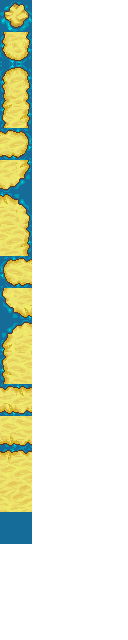
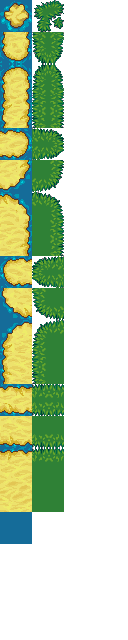
11.02

Changed region(s): [[0.25, 0.0, 0.5, 0.8125]]

diff --git a/NetBeansProjects/Slick2D/src/MapGen.java b/NetBeansProjects/Slick2D/src/MapGen.java
@@ -1,4 +1,5 @@
 import java.awt.Point;
+import java.util.Random;
 import java.util.logging.Level;
 import java.util.logging.Logger;
 import org.newdawn.slick.Graphics;
@@ -20,14 +21,21 @@ public class MapGen {
     SpriteSheet sheet;
     double noiseMap[][];
     Image map;
+    Image tree;
     int tileSize = 32;
     int size;
-    double waterLevel = 0.0;
-    NoiseMixer noiseMixer;
+    double waterLevel = -0.05;
+    double grassLevel = -0.02;
+    double treeLevel = -0.005;
+    //NoiseMixer noiseMixer;
+    FixedNoise fixedNoise;
+    Random r;
     
     
     public MapGen(int size) {
-        noiseMixer = new NoiseMixer(10);
+        r = new Random();
+        //noiseMixer = new NoiseMixer(10);
+        fixedNoise = new FixedNoise();
         this.size = size;
         noiseMap = new double[size+2][size+2];
         for(int y=0; y<size; y++){
@@ -36,6 +44,7 @@ public class MapGen {
             }
         }
         try {
+            tree = new Image("res/tree.png");
             sheet = new SpriteSheet("res/sandwaterbinary2.png", 32, 32);
             map = new Image(size*tileSize, size*tileSize);
         } catch (Exception ex) {
@@ -67,7 +76,8 @@ public class MapGen {
                 //freq = 0.32;
                 //noise = SimplexNoise.noise(x*freq, y*freq);
                 */
-                noise = noiseMixer.getNoise(x, y);
+                //noise = noiseMixer.getNoise(x, y);
+                noise = fixedNoise.getNoise(x, y);
                 noiseMap[x][y] = noise;
             }
         }
@@ -75,7 +85,7 @@ public class MapGen {
         for(int y=1; y<size-1; y++){
             for(int x=1; x<size-1; x++){
                 
-                
+                //Tegne vann og sand
                 if(noiseMap[x][y]<waterLevel){
                     g.drawImage(sheet.getSprite(0, 16), x*tileSize, y*tileSize);
                 } else {
@@ -94,7 +104,42 @@ public class MapGen {
                 }
                     g.drawImage(sheet.getSprite(0, spriteNumber), x*tileSize, y*tileSize);
                 }
+                //Tegne gras
+                if(noiseMap[x][y]<grassLevel){
+                    g.drawImage(sheet.getSprite(1, 16), x*tileSize, y*tileSize);
+                } else {
+                    int spriteNumber = 0;
+                if(noiseMap[x][y-1]>grassLevel){
+                    spriteNumber = spriteNumber + 1;
+                }
+                if(noiseMap[x][y+1]>grassLevel){
+                    spriteNumber = spriteNumber + 2;
+                }
+                if(noiseMap[x-1][y]>grassLevel){
+                    spriteNumber = spriteNumber + 4;
+                }
+                if(noiseMap[x+1][y]>grassLevel){
+                    spriteNumber = spriteNumber + 8;
+                }
+                    g.drawImage(sheet.getSprite(1, spriteNumber), x*tileSize, y*tileSize);
+                }
                 
+                
+                //Tegne tred
+                
+            }
+        }
+        
+        for(int y=1; y<size-1; y++){
+            for(int x=1; x<size-1; x++){
+                if(x%3==0 && y%3==0){
+                    //Tegne gras
+                    if(noiseMap[x][y]>treeLevel){
+                        if(r.nextInt(10)<3){
+                            g.drawImage(tree, x*tileSize, y*tileSize);
+                        } 
+                    } 
+                }
             }
         }
         

diff --git a/NetBeansProjects/Slick2D/src/FixedNoise.java b/NetBeansProjects/Slick2D/src/FixedNoise.java
@@ -1,0 +1,76 @@
+import java.util.Random;
+
+
+public class FixedNoise {
+    
+    double influence[];
+    double noiseArray[];
+    double randomArray[];
+    
+
+    
+    public FixedNoise() {
+        Random r = new Random();
+        noiseArray = new double[10];
+        influence = new double[10];
+        randomArray = new double[10];
+        
+        for (int i=0; i<10; i++){
+            randomArray[i] = r.nextDouble();
+        }
+        
+        influence [0] = 0; //4
+        influence [1] = 5; //8
+        influence [2] = 7; //16
+        influence [3] = 10; //32
+        influence [4] = 20; //64
+        influence [5] = 50; //128
+        influence [6] = 75; //256
+        influence [7] = 100; //512
+        influence [8] = 0; //1024
+        influence [9] = 0; //2048
+        
+        /*
+        influence [0] = 100;
+        influence [1] = 100;
+        influence [2] = 100;
+        influence [3] = 100;
+        influence [4] = 100;
+        influence [5] = 100;
+        influence [6] = 100;
+        influence [7] = 100;
+        influence [8] = 100;
+        influence [9] = 100;
+        */
+    }
+    
+    public double getNoise(double x, double y){
+        double noise = 0.0;
+        
+        double xin = 4.0;
+        for(int i=0; i<10; i++){
+            noiseArray[i] = SimplexNoise.noise(x / xin + randomArray[i], y / xin + randomArray[i]);
+            xin = xin * 2.0;
+        }
+        for(int i=0; i<10; i++){
+            noise = noise + (noiseArray[i] * influence[i]);
+        }
+        noise = noise/1000;
+        //noise = noise / (influence[0]+influence[1]+influence[2]+influence[3]+influence[4]+influence[5]+influence[6]+influence[7]+influence[8]+influence[9]);
+        /*
+        noise =
+                        (noiseArray[0] * v0
+                        + noiseArray[1] * v1
+                        + noiseArray[2] * v2
+                        + noiseArray[3] * v3
+                        + noiseArray[4] * v4
+                        + noiseArray[5] * v5
+                        + noiseArray[6] * v6
+                        + noiseArray[7] * v7
+                        + noiseArray[8] * v8
+                        + noiseArray[9] * v9) / (v0 + v1 + v2 + v3 + v4 + v5 + v6 + v7 + v8 + v9);
+        
+        */   
+        return noise;
+    }
+}

diff --git a/NetBeansProjects/Slick2D/src/NoiseMixer.java b/NetBeansProjects/Slick2D/src/NoiseMixer.java
@@ -31,7 +31,7 @@ public class NoiseMixer {
         for(int i=0; i<numbFreq; i++){
             freqArray[i] = a*i + Math.pow(b,i) + c;
             //freqArray[i] = i*8;
-            System.out.println(freqArray[i]);
+            //System.out.println(freqArray[i]);
             randomArray[i] = r.nextDouble() * 10000;
         }
     }
@@ -53,7 +53,7 @@ public class NoiseMixer {
             totalFreq = totalFreq + freqArray[i];
         }
         noise = noise / (totalFreq);
-        //System.out.println(noise);
+        System.out.println(noise);
         return noise;
     }
 }

diff --git a/NetBeansProjects/Slick2D/src/Animator.java b/NetBeansProjects/Slick2D/src/Animator.java
@@ -39,6 +39,6 @@ public class Animator {
 
     Animation getAnimation(int x, int numb) {
         Image[] imageArray = loadImages(x, numb);
-        return new Animation(imageArray, 150);
+        return new Animation(imageArray, 50);
     }
 }
